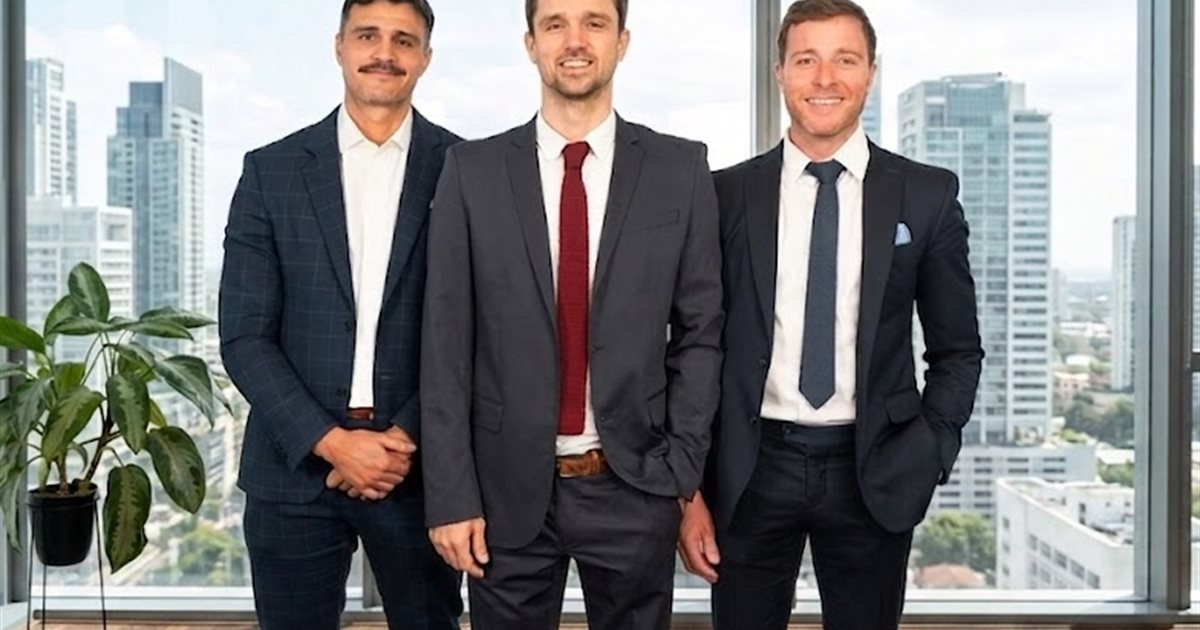
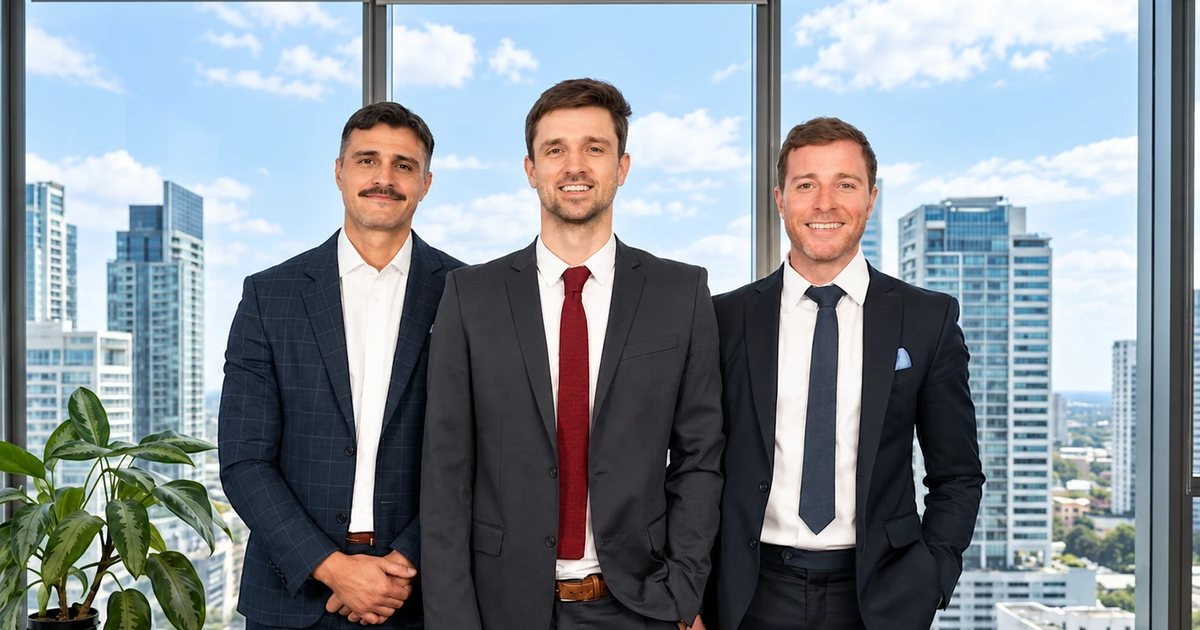
og-image con la foto nueva del equipo (1200x630)
Se agrega ?v= a la URL para forzar que redes sociales actualicen la vista previa.

Claude-Session: https://claude.ai/code/session_018uRQxfcKh3LEMGt9m6owbA

diff --git a/index.html b/index.html
@@ -31,7 +31,7 @@
     />
     <meta property="og:type" content="website" />
     <meta property="og:url" content="https://boqv.com.ar/" />
-    <meta property="og:image" content="https://boqv.com.ar/assets/og-image.jpg" />
+    <meta property="og:image" content="https://boqv.com.ar/assets/og-image.jpg?v=20261025" />
     <meta property="og:image:width" content="1200" />
     <meta property="og:image:height" content="630" />
     <meta property="og:image:alt" content="Equipo de BOQV Abogados" />
@@ -41,7 +41,7 @@
       name="twitter:description"
       content="Estudio jurídico con atención en CABA y Provincia de Buenos Aires."
     />
-    <meta name="twitter:image" content="https://boqv.com.ar/assets/og-image.jpg" />
+    <meta name="twitter:image" content="https://boqv.com.ar/assets/og-image.jpg?v=20261025" />
     <link rel="canonical" href="https://boqv.com.ar/" />
     <link rel="icon" href="assets/favicon.svg" type="image/svg+xml" />
     <link rel="apple-touch-icon" href="assets/favicon.svg" />
